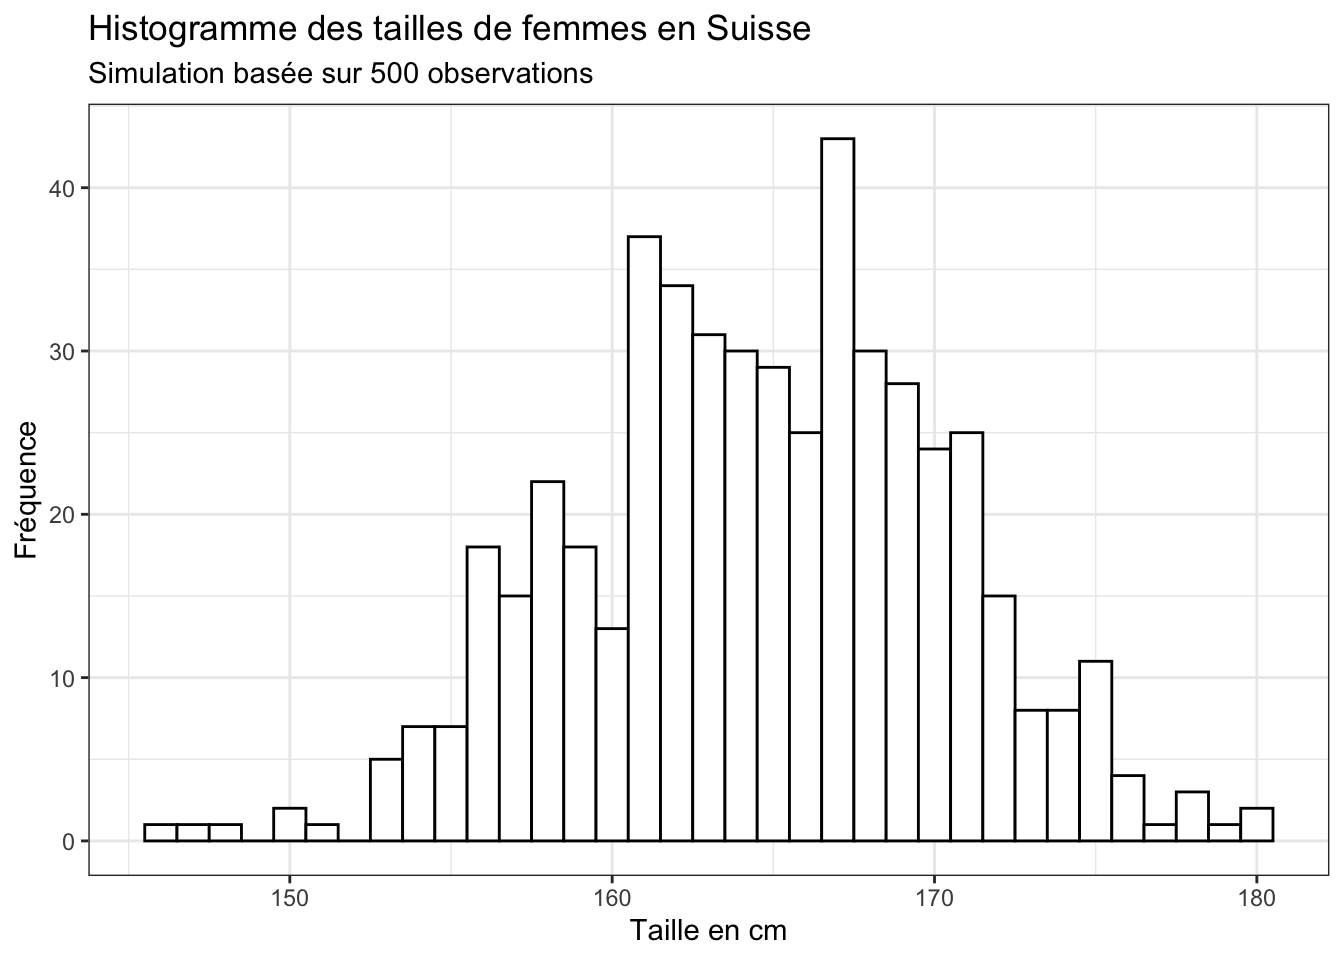
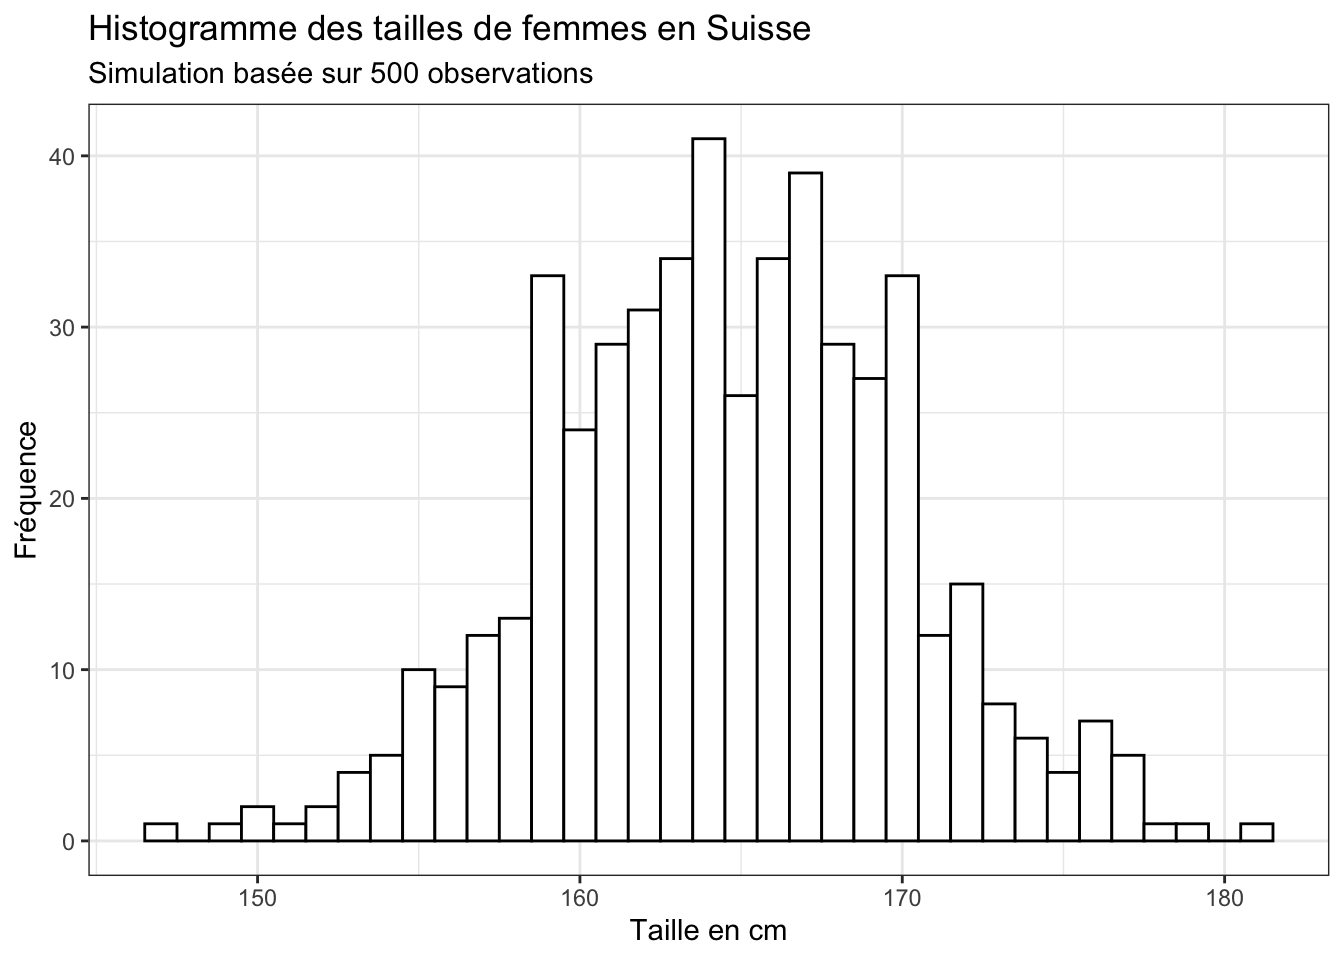
session 12 v5

diff --git a/index.html b/index.html
@@ -1768,7 +1768,7 @@ Attention
 <span id="cb100-5"><a href="#cb100-5" aria-hidden="true" tabindex="-1"></a></span>
 <span id="cb100-6"><a href="#cb100-6" aria-hidden="true" tabindex="-1"></a><span class="fu">head</span>(taille_f)</span></code><button title="Copy to Clipboard" class="code-copy-button"><i class="bi"></i></button></pre></div>
 <div class="cell-output cell-output-stdout">
-<pre><code>[1] 177.8840 164.6464 162.2174 170.1930 173.5382 166.5997</code></pre>
+<pre><code>[1] 159.7072 168.4934 174.5986 171.5940 170.1567 170.2337</code></pre>
 </div>
 <div class="sourceCode cell-code" id="cb102"><pre class="sourceCode r code-with-copy"><code class="sourceCode r"><span id="cb102-1"><a href="#cb102-1" aria-hidden="true" tabindex="-1"></a><span class="co"># stocker taille_f comme objet de type 'data.frame'</span></span>
 <span id="cb102-2"><a href="#cb102-2" aria-hidden="true" tabindex="-1"></a>taille_f <span class="ot">&lt;-</span> <span class="fu">as.data.frame</span>(taille_f)</span>
@@ -3664,12 +3664,12 @@ Non Oui
 </section>
 <section id="session-11-cours-en-auto-apprentissage" class="level1">
 <h1>Session 11 (cours en auto-apprentissage)</h1>
-<p><strong>Sujet : La statistique inférentielle, Partie 1 (t-test)</strong></p>
-<p>Dans cette leçon, nous allons nous concentrer sur trois méthodes de statistiques inférentielles couramment utilisées :</p>
+<p><strong>Sujet : La statistique inférentielle, Partie 1 (tests t)</strong></p>
+<p>Dans cette et la prochaine session, nous allons nous concentrer sur trois méthodes de statistiques inférentielles couramment utilisées :</p>
 <ul>
-<li><p>Les tests t (angl. Student’s t-test)</p></li>
-<li><p>l’analyse de variance (angl. ANOVA = ANalysis Of VAriance)</p></li>
-<li><p>La régression linéaire (angl. linear regression).</p></li>
+<li><p>Les <strong>tests t</strong> (angl. Student’s t-test)</p></li>
+<li><p>l’<strong>analyse de variance</strong> (angl. <strong>ANOVA</strong> = ANalysis Of VAriance)</p></li>
+<li><p>La <strong>régression linéaire</strong> (angl. linear regression).</p></li>
 </ul>
 <p>Mais d’abord, il faut répondre à la question suivante :</p>
 <section id="cest-quoi-la-statistique-inférentielle" class="level2">
